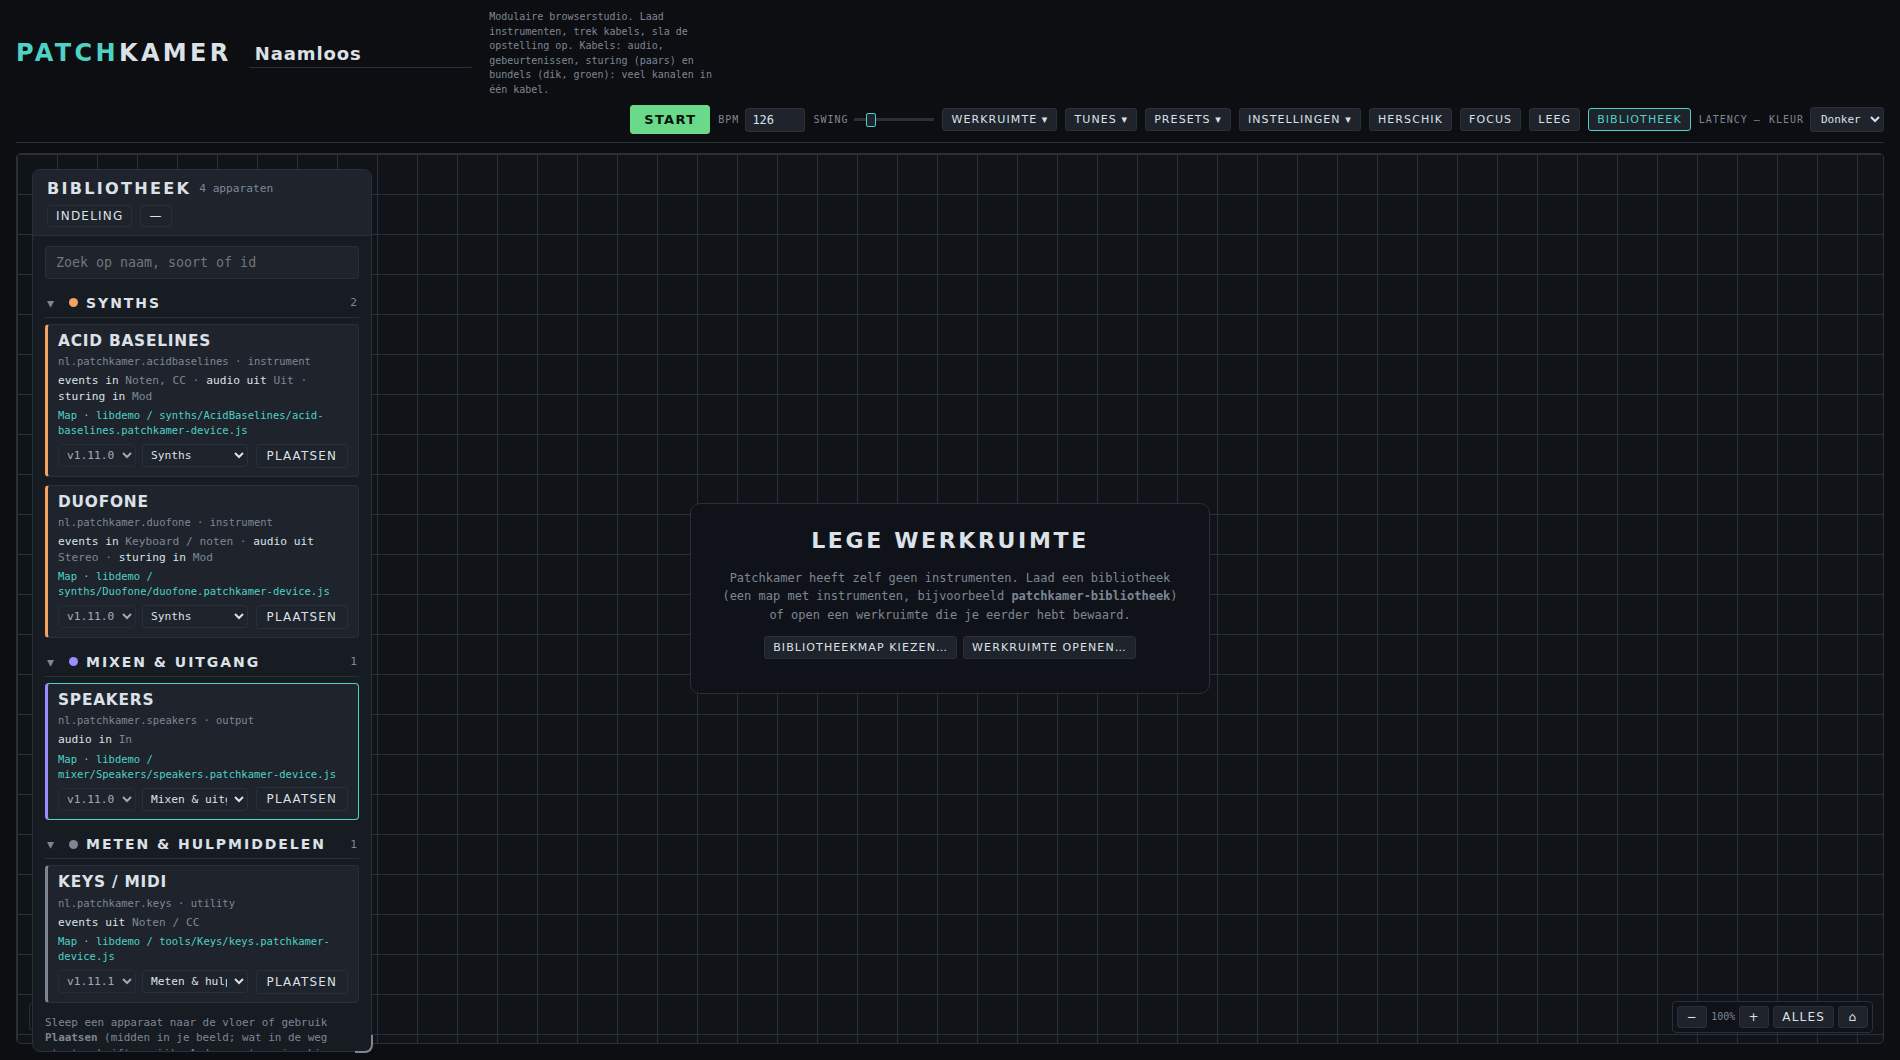
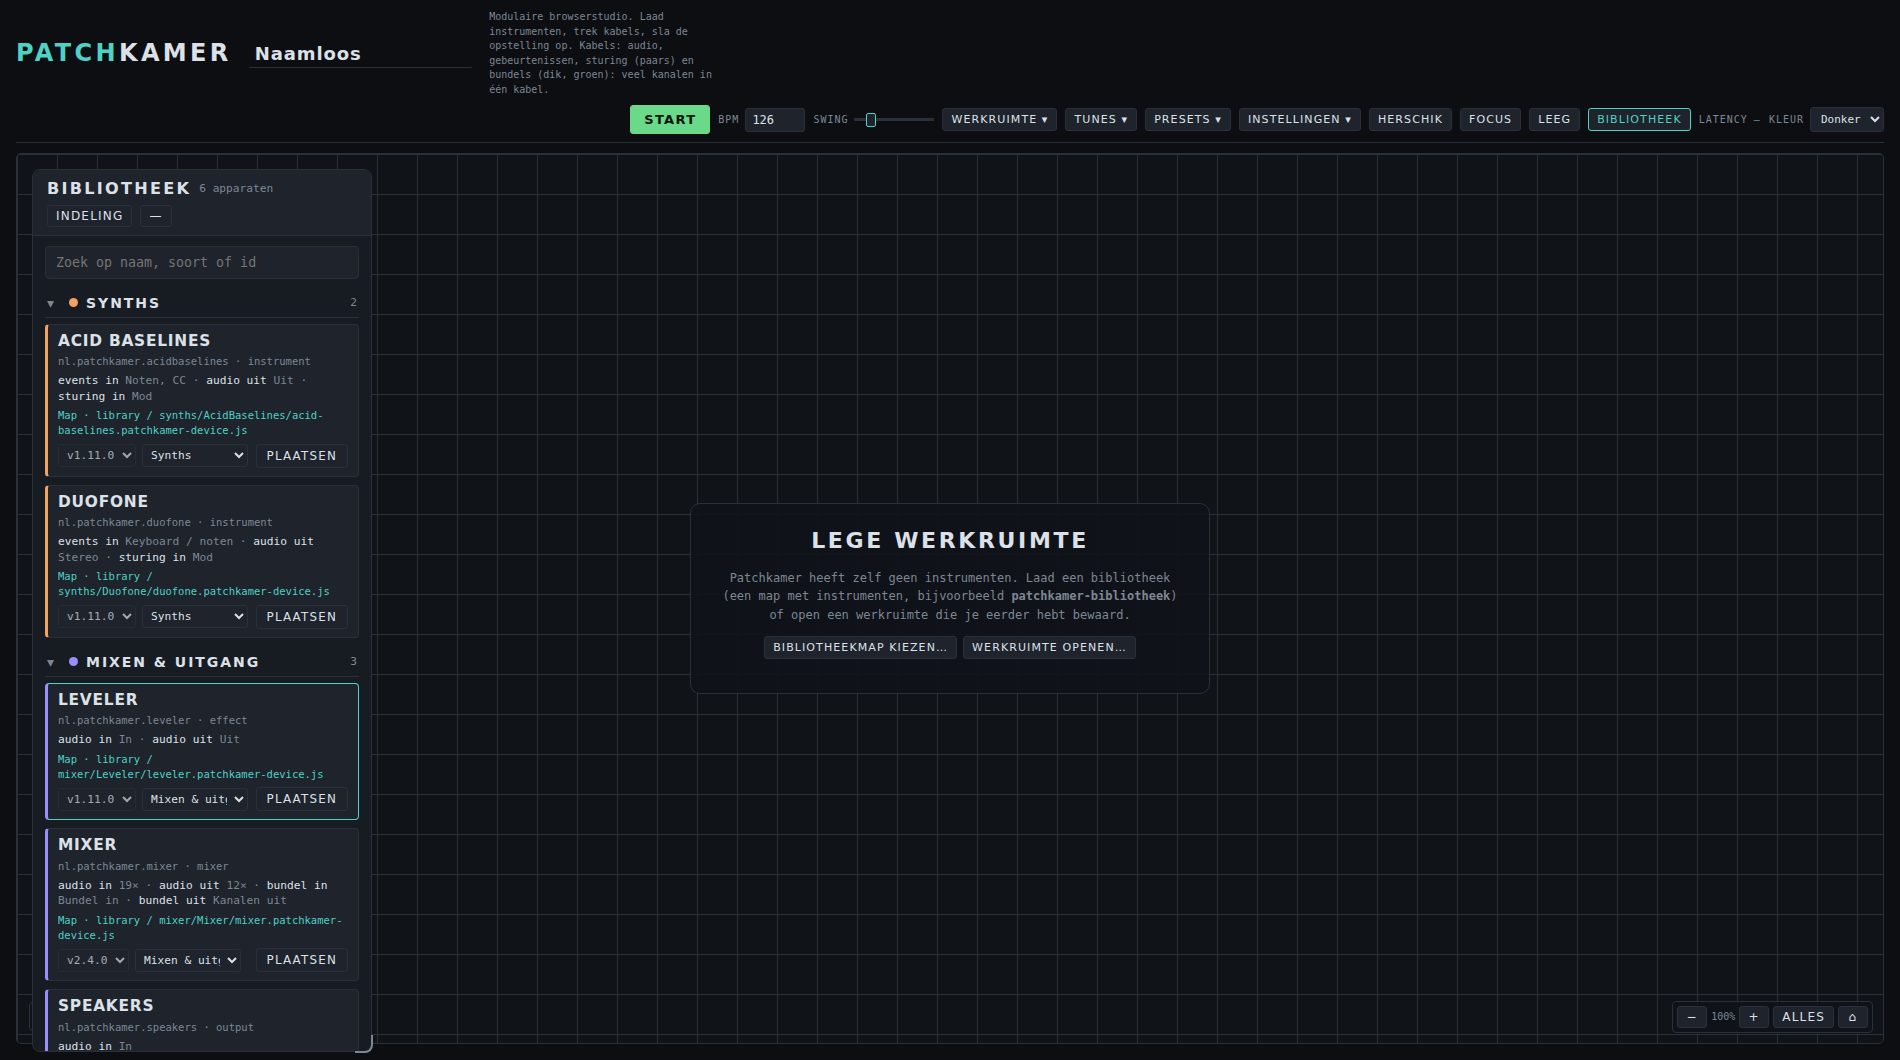
Documentatie: Mixer en Leveler in README en handleiding (NL en EN), met screenshots

Changed region(s): [[0.0311, 0.7783, 0.1863, 0.9962], [0.0621, 0.716, 0.1553, 0.7472], [0.0311, 0.6538, 0.0932, 0.6849]]

diff --git a/docs/tools/make-screenshots.py b/docs/tools/make-screenshots.py
@@ -101,6 +101,9 @@ def shots(browser, lang, OUT, LIB, BASE):
     shadow_set(c, 'select.pat', 'Squelch'); pg.wait_for_timeout(300); c.screenshot(path=OUT + '/04-acid-baselines.png'); done(pg)
     pg = newpage(nopicker=True); load_lib(pg); place(pg, 'Keys'); pg.click('#libToggle'); pg.wait_for_timeout(2500)
     pg.locator('.card').first.screenshot(path=OUT + '/05-keys.png'); done(pg)
+    for dev, shot in (('Mixer', '11-mixer'), ('Leveler', '12-leveler')):
+        pg = newpage(nopicker=True); load_lib(pg); place(pg, dev); pg.click('#libToggle'); pg.wait_for_timeout(2500)
+        pg.locator('.card').first.screenshot(path=OUT + '/' + shot + '.png'); done(pg)
     print('klaar:', lang, len(os.listdir(OUT)), 'afbeeldingen')
 
 if __name__ == '__main__':

diff --git a/docs/USER-MANUAL_NL.md b/docs/USER-MANUAL_NL.md
@@ -136,6 +136,29 @@ Een keyboard dat zelf geen geluid maakt. Het stuurt noten naar andere apparaten.
 
 Een synth in analoge stijl met twee onafhankelijke toonhoogten, een gedeeld filter en een gedeelde VCA, met ringmodulatie, hard sync en sample & hold. Verbind Keys met de poort **Keyboard / noten** en de uitgang **Stereo** met Speakers.
 
+### Mixer
+
+Een mengpaneel met 1 tot 32 kanalen en 0 tot 8 groepen, en een master met een begrenzer. Verbind de apparaten die geluid maken met de kanaalingangen (**1**, **2**, …) en de poort **Uit** van de master met Speakers.
+
+![De kaart van Mixer](images/nl/11-mixer.png)
+
+- **Kanalen** en **Groepen** bepalen hoeveel er zijn. De poorten op de kaart komen en gaan mee. Elk kanaal heeft een ingang, een poort **send** en een poort **ret** (return). Typ in het naamveld om een kanaal een naam te geven.
+- Per kanaal: **Trim**, een **EQ** van 3 of 5 banden (kies onder **EQ**), **Send**, **Return**, de groep waar het heen gaat (**→ M** is de master), **Pan**, een fader met een niveaumeter, en **M** (mute) en **S** (solo). Groepen en de master hebben ook een EQ, send/return en een fader, en achter de master zit een begrenzer. Dubbelklik op een schuif om terug te gaan naar de beginwaarde.
+- **Gelijk trekken** meet 4 seconden en zet de trim van elk kanaal zo dat alle bronnen op het **Doel**niveau binnenkomen. **Doorlopend** houdt ze daar langzaam op (hooguit 3 dB per seconde).
+- **Bundels.** Een groene bundelkabel (bijvoorbeeld de losse uitgangen van een drumcomputer) gaat in **bundel in**; kies per kanaal onder het naamveld welk bundelkanaal daar binnenkomt. **Kanalen uit** stuurt alle kanalen, na het mixen, als één bundel door, bijvoorbeeld naar een recorder. **+ groepen en mix** voegt de groepen en de totale mix toe.
+- Een Mixer heeft **presets** (hij maakt zelf geen geluid). Een preset bewaart de instellingen maar niet de bronkeuzes van de kanalen.
+
+### Leveler
+
+Houdt het gemiddelde volume van een bron gelijk. Zet hem tussen een instrument en de Mixer, of op de mix vóór Speakers. Dat helpt bij bronnen die langzaam harder en zachter worden, bijvoorbeeld door een modulator.
+
+![De kaart van Leveler](images/nl/12-leveler.png)
+
+- **Stand:** *Regelen* of *Doorlaten* (het geluid gaat ongewijzigd door).
+- **Doelniveau** is het niveau waar hij naartoe regelt. **Reactietijd** is hoe snel het volume omhoog of omlaag gaat (omlaag is drie keer zo snel). **Meettijd** is de tijd waarover hij meet. **Bereik ±** is hoeveel hij het volume hooguit omhoog of omlaag draait. Onder de **Stiltedrempel** blijft het volume staan, zodat galmstaarten en pauzes niet worden opgeblazen. **Plafond** is de grens van de begrenzer erachter, die pieken opvangt.
+- De meter toont **IN**, **UIT** en **REGEL**, met een lampje voor de begrenzer. **Huidig niveau = doel** zet het doelniveau op wat er nu binnenkomt. **Regeling op 0** zet de correctie terug op 0.
+- Een Leveler heeft **presets**. Zonder AudioWorklet in je browser laat hij het geluid ongewijzigd door en meldt dat.
+
 ## 7. Tunes en presets
 
 Een **tune** is een volledige instelling van één apparaat dat geluid maakt: alle knoppen, patronen en keuzes. Een **preset** is hetzelfde voor een apparaat zonder eigen geluid, zoals een effect of een mixer. Geen van beide bevat kabels.

diff --git a/docs/USER-MANUAL_EN.md b/docs/USER-MANUAL_EN.md
@@ -136,6 +136,29 @@ A keyboard that makes no sound itself. It sends notes to other devices.
 
 An analog-style synth with two independent pitches, a shared filter and VCA, with ring modulation, hard sync and sample & hold. Connect Keys to its **Keyboard / notes** port and its **Stereo** out to Speakers.
 
+### Mixer
+
+A mixing desk with 1 to 32 channels and 0 to 8 groups, and a master with a limiter. Connect the sound-making devices to the channel inputs (**1**, **2**, …) and the **Out** port of the master to Speakers.
+
+![The Mixer card](images/en/11-mixer.png)
+
+- **Channels** and **Groups** set how many there are. The ports on the card appear and disappear with them. Every channel has its input, a **send** port and a **ret** (return) port. Type in the name field to name a channel.
+- Per channel: **Trim**, a 3- or 5-band **EQ** (choose under **EQ**), **Send**, **Return**, the group it goes to (**→ M** is the master), **Pan**, a fader with a level meter, and **M** (mute) and **S** (solo). Groups and the master have an EQ, send/return and a fader too, and a limiter sits behind the master. Double-click a slider to go back to its starting value.
+- **Level match** measures for 4 seconds and sets the trim of every channel so all sources arrive at the **Target** level. **Continuous** keeps them there slowly (at most 3 dB per second).
+- **Bundles.** A green bundle cable (for example the separate outputs of a drum machine) goes into **bundle in**; choose per channel which bundle channel arrives there, under the name field. **Channels out** sends all channels, after mixing, as one bundle, for example to a recorder. **+ groups and mix** adds the groups and the total mix to it.
+- A Mixer has **presets** (it makes no sound of its own). A preset keeps the settings but not the source choices of the channels.
+
+### Leveler
+
+Keeps the average volume of a source steady. Place it between an instrument and the Mixer, or on the mix before Speakers. It helps with sources that slowly get louder and softer, for example through a modulator.
+
+![The Leveler card](images/en/12-leveler.png)
+
+- **Mode:** *Leveling* or *Pass through* (the sound goes through unchanged).
+- **Target** is the level it aims for. **Response** is how fast the volume moves up or down (down is three times faster). **Window** is the time over which it measures. **Range ±** is the most it may turn the volume up or down. Below the **Gate** level the volume stays where it is, so reverb tails and pauses are not blown up. **Ceiling** is the limit of the limiter behind it, which catches peaks.
+- The meter shows **IN**, **OUT** and **GAIN**, with a lamp for the limiter. **Current level = target** sets the target to what comes in now. **Reset gain** sets the correction back to 0.
+- A Leveler has **presets**. Without AudioWorklet in your browser it passes the sound through unchanged and tells you so.
+
 ## 7. Tunes and presets
 
 A **tune** is a complete setting of one device that makes sound: all knobs, patterns and choices. A **preset** is the same for a device without a sound of its own, such as an effect or a mixer. Neither contains cables.

diff --git a/README_NL.md b/README_NL.md
@@ -31,6 +31,8 @@ De [gebruikershandleiding](docs/USER-MANUAL_NL.md) leidt je er stap voor stap do
 | **Duofone** | Een synth in analoge stijl met twee onafhankelijke toonhoogten, een gedeeld filter en een gedeelde VCA, ringmodulatie, hard sync en sample & hold | `devices/synths/Duofone/` |
 | **Acid Baselines** | Een bassynth met een sequencer van 16 stappen (accent, slide, octaaf per stap) en 16 klassieke patronen in acid-stijl | `devices/synths/AcidBaselines/` |
 | **Keys / MIDI** | Een keyboard en Web MIDI-brug die noten naar andere apparaten stuurt | `devices/tools/Keys/` |
+| **Mixer** | Een mengpaneel met 1 tot 32 kanalen en 0 tot 8 groepen: trim, EQ, sends en returns, pan, faders, mute en solo, bundel in en uit, en een master met een begrenzer | `devices/mixer/Mixer/` |
+| **Leveler** | Houdt het gemiddelde volume van een bron gelijk: een leveler met een begrenzer erachter | `devices/mixer/Leveler/` |
 | **Speakers** | De uitgang: volume, een begrenzer en een uitsteekmeter | `devices/mixer/Speakers/` |
 
 De map `tunes/` bevat **Duofone Styles** (60 tunes in 12 stijlen) en **Acid Baselines Classics** (40 tunes in 8 stijlen).

diff --git a/README.md b/README.md
@@ -31,6 +31,8 @@ The [user manual](docs/USER-MANUAL_EN.md) walks you through it step by step, wit
 | **Duofone** | An analog-style synth with two independent pitches, a shared filter and VCA, ring modulation, hard sync and sample & hold | `devices/synths/Duofone/` |
 | **Acid Baselines** | A bass synth with a 16-step sequencer (accent, slide, octave per step) and 16 classic acid-style patterns | `devices/synths/AcidBaselines/` |
 | **Keys / MIDI** | A keyboard and Web MIDI bridge that sends notes to other devices | `devices/tools/Keys/` |
+| **Mixer** | A mixing desk with 1 to 32 channels and 0 to 8 groups: trim, EQ, sends and returns, pan, faders, mute and solo, bundle in and out, and a master with a limiter | `devices/mixer/Mixer/` |
+| **Leveler** | Keeps the average volume of a source steady: a leveler with a limiter behind it | `devices/mixer/Leveler/` |
 | **Speakers** | The output: volume, a limiter and a level meter | `devices/mixer/Speakers/` |
 
 The `tunes/` folder has **Duofone Styles** (60 tunes in 12 styles) and **Acid Baselines Classics** (40 tunes in 8 styles).
